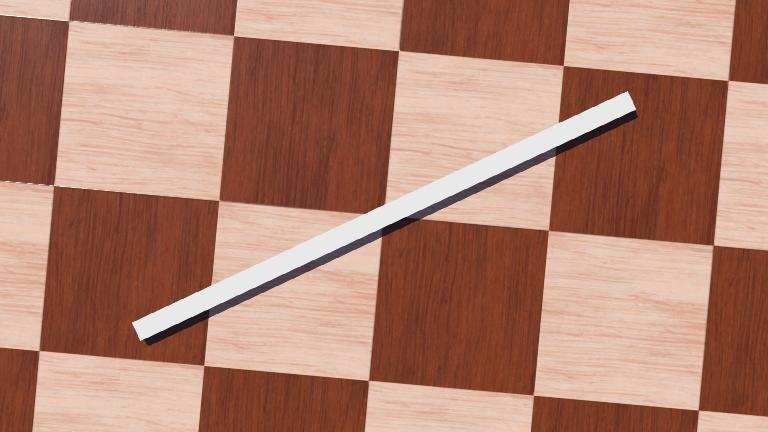
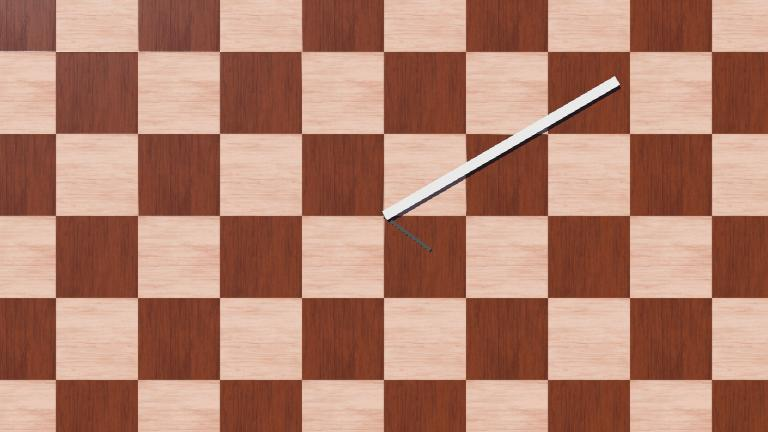
добавлен Rod_A

diff --git a/simulation/webots/controllers/ellic_controller/ellic_controller.py b/simulation/webots/controllers/ellic_controller/ellic_controller.py
@@ -9,7 +9,7 @@ sensor = robot.getDevice("crank_sensor")
 sensor.enable(timestep)
 
 motor.setPosition(float('inf'))
-motor.setVelocity(4.0)
+motor.setVelocity(3.0)
 
-while robot.step(timestep) != -1:
+while robot.step(timestep) != 1:
     print("angle:", sensor.getValue())
